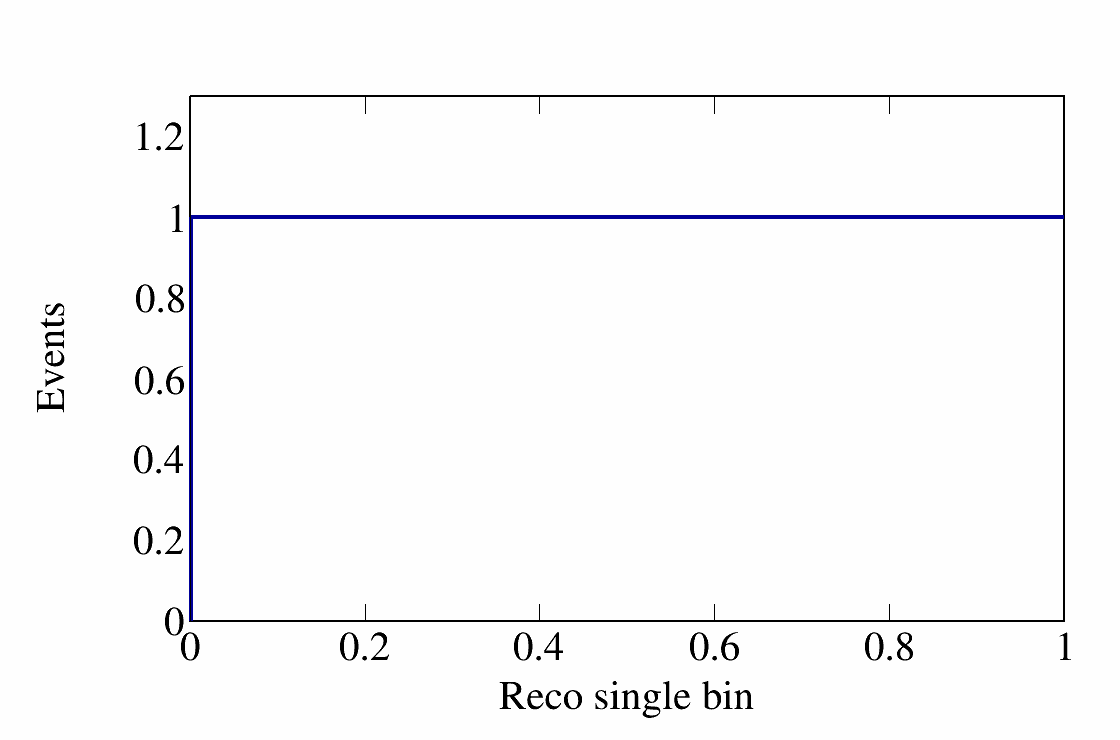
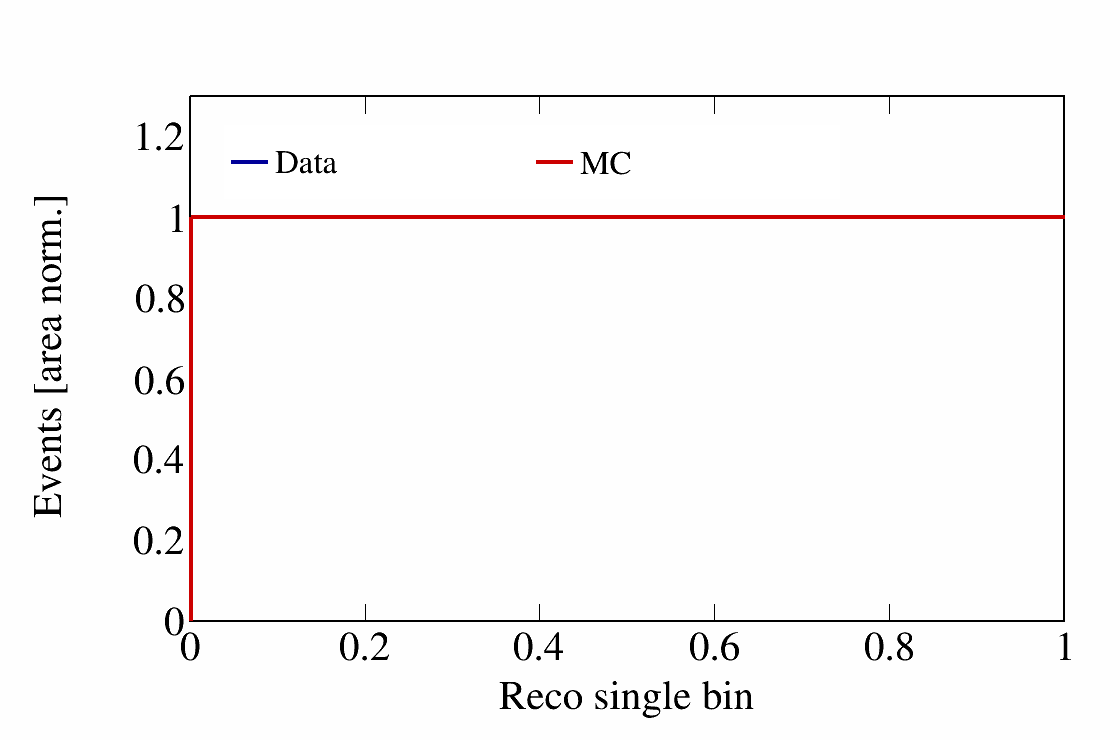
Overlay data with MC shapes

diff --git a/CAFAnaAnalysis/Scripts/SelectionData.C b/CAFAnaAnalysis/Scripts/SelectionData.C
@@ -35,7 +35,8 @@ void SelectionData() {
     double TextSize = 0.06;	
 
     // The SpectrumLoader object handles the loading of CAFs and the creation of Spectrum.
-    SpectrumLoader NuLoader("/exp/sbnd/data/users/munjung/SBND/data/run_14500_14503.flat.caf.root");
+    SpectrumLoader DataLoader("/exp/sbnd/data/users/munjung/SBND/data/run_14500_14503.flat.caf.root");
+    SpectrumLoader MCLoader(InputFiles);
 
     // Directory to store figs
     TString dir = "/exp/sbnd/app/users/" + (TString)UserName + "/CC1muAnalysis";
@@ -44,12 +45,13 @@ void SelectionData() {
     TString RootFilePath = "/exp/sbnd/data/users/" + (TString)UserName + "/CAFAnaOutput/Data.root";
     TFile* SaveFile = new TFile(RootFilePath, "RECREATE");
 
-    std::vector<std::unique_ptr<Spectrum>> Spectra;
+    std::vector<std::tuple<std::unique_ptr<Spectrum>, std::unique_ptr<Spectrum>>> Spectra;
 
     // Variables after cutting 
     for (std::size_t i = 0; i < Vars.size(); i++) {
-        auto RecoSignal = std::make_unique<Spectrum>(VarLabels.at(i), VarBins.at(i), NuLoader, std::get<0>(Vars.at(i)), kNoSpillCut, kRecoIsSignal);
-        Spectra.push_back(std::move(RecoSignal));
+        auto RecoSignal = std::make_unique<Spectrum>(VarLabels.at(i), VarBins.at(i), DataLoader, std::get<0>(Vars.at(i)), kNoSpillCut, kRecoIsSignal);
+        auto MCSignal = std::make_unique<Spectrum>(VarLabels.at(i), VarBins.at(i), MCLoader, std::get<0>(Vars.at(i)), kNoSpillCut, kRecoIsSignal);
+        Spectra.push_back({std::move(RecoSignal), std::move(MCSignal)});
     }
 
     // Variables without any cut
@@ -58,15 +60,16 @@ void SelectionData() {
     NoCutVars.push_back(kVertexY); NoCutBins.push_back(bVertexY); NoCutLabels.push_back("#vec{v}_{y}"); NoCutNames.push_back("VertexY");
     NoCutVars.push_back(kVertexZ); NoCutBins.push_back(bVertexZ); NoCutLabels.push_back("#vec{v}_{z}"); NoCutNames.push_back("VertexZ");
     for (std::size_t i = 0; i < NoCutVars.size(); i++) {
-        auto RecoSignal = std::make_unique<Spectrum>(NoCutLabels.at(i), NoCutBins.at(i), NuLoader, NoCutVars.at(i), kNoSpillCut, kNoInvalidVariables);
-        Spectra.push_back(std::move(RecoSignal));
+        auto RecoSignal = std::make_unique<Spectrum>(NoCutLabels.at(i), NoCutBins.at(i), DataLoader, NoCutVars.at(i), kNoSpillCut, kNoInvalidVariables);
+        auto MCSignal = std::make_unique<Spectrum>(NoCutLabels.at(i), NoCutBins.at(i), MCLoader, NoCutVars.at(i), kNoSpillCut, kNoInvalidVariables);
+        Spectra.push_back({std::move(RecoSignal), std::move(MCSignal)});
     }
     
-    NuLoader.Go();
+    DataLoader.Go(); MCLoader.Go();
 
     // Variables after cutting
     for (std::size_t iVar = 0; iVar < Vars.size(); iVar++) {
-        auto& RecoSignal = Spectra[iVar];
+        auto& [RecoSignal, MCSignal] = Spectra[iVar];
 
         TCanvas* PlotCanvas = new TCanvas("Selection","Selection",205,34,1124,768);
         PlotCanvas->SetTopMargin(0.13);
@@ -74,15 +77,34 @@ void SelectionData() {
         PlotCanvas->SetRightMargin(0.05);
         PlotCanvas->SetBottomMargin(0.16);
 
+        TLegend* leg = new TLegend(0.2,0.73,0.75,0.83);
+        leg->SetBorderSize(0);
+        leg->SetNColumns(3);
+        leg->SetTextSize(TextSize*0.8);
+        leg->SetTextFont(FontStyle);
+
         TH1D* RecoHist = RecoSignal->ToTH1(TargetPOT);
+        TH1D* MCHist = MCSignal->ToTH1(TargetPOT);
 
         RecoHist->SetBinContent(RecoHist->GetNbinsX(), RecoHist->GetBinContent(RecoHist->GetNbinsX()) + RecoHist->GetBinContent(RecoHist->GetNbinsX() + 1));
         RecoHist->SetBinContent(1, RecoHist->GetBinContent(0) + RecoHist->GetBinContent(1));
 
-        double Area = RecoHist->Integral();
-        RecoHist->Scale(1 / Area);
+        MCHist->SetBinContent(MCHist->GetNbinsX(), MCHist->GetBinContent(MCHist->GetNbinsX()) + MCHist->GetBinContent(MCHist->GetNbinsX() + 1));
+        MCHist->SetBinContent(1, MCHist->GetBinContent(0) + MCHist->GetBinContent(1));
+
+        double RecoArea = RecoHist->Integral();
+        RecoHist->Scale(1 / RecoArea);
+
+        double MCArea = MCHist->Integral();
+        MCHist->Scale(1 / MCArea);
+
+        TLegendEntry* legData = leg->AddEntry(RecoHist,"Data","l");
         RecoHist->SetLineColor(kBlue+2);
         RecoHist->SetLineWidth(4);
+
+        TLegendEntry* legMC = leg->AddEntry(MCHist,"MC","l");
+        MCHist->SetLineColor(kRed+1);
+        MCHist->SetLineWidth(4);
 
         RecoHist->GetXaxis()->SetTitleFont(FontStyle);
         RecoHist->GetXaxis()->SetLabelFont(FontStyle);
@@ -101,10 +123,14 @@ void SelectionData() {
         RecoHist->GetYaxis()->SetTitleOffset(1.3);
         RecoHist->GetYaxis()->SetTickSize(0);
         RecoHist->GetYaxis()->CenterTitle();
+        RecoHist->GetYaxis()->SetTitle("Events [area norm.]");
 
-        RecoHist->GetYaxis()->SetRangeUser(0., RecoHist->GetMaximum() * 1.3);
+        double Max = std::max(RecoHist->GetMaximum(), MCHist->GetMaximum());
+        RecoHist->GetYaxis()->SetRangeUser(0., Max * 1.3);
         PlotCanvas->cd();
         RecoHist->Draw("hist");
+        MCHist->Draw("hist same");
+        leg->Draw();
         PlotCanvas->SaveAs(dir+"/Figs/CAFAna/DataCounts/"+PlotNames[iVar]+".png");
 
         delete PlotCanvas;
@@ -112,7 +138,7 @@ void SelectionData() {
 
     // Variables without any cutting
     for (std::size_t iVar = Vars.size(); iVar < Vars.size() + NoCutVars.size(); iVar++) {
-        auto& RecoSignal = Spectra[iVar];
+        auto& [RecoSignal, MCSignal] = Spectra[iVar];
 
         TCanvas* PlotCanvas = new TCanvas("Selection","Selection",205,34,1124,768);
         PlotCanvas->SetTopMargin(0.13);
@@ -120,15 +146,34 @@ void SelectionData() {
         PlotCanvas->SetRightMargin(0.05);
         PlotCanvas->SetBottomMargin(0.16);
 
+        TLegend* leg = new TLegend(0.2,0.73,0.75,0.83);
+        leg->SetBorderSize(0);
+        leg->SetNColumns(3);
+        leg->SetTextSize(TextSize*0.8);
+        leg->SetTextFont(FontStyle);
+
         TH1D* RecoHist = RecoSignal->ToTH1(TargetPOT);
+        TH1D* MCHist = MCSignal->ToTH1(TargetPOT);
 
         RecoHist->SetBinContent(RecoHist->GetNbinsX(), RecoHist->GetBinContent(RecoHist->GetNbinsX()) + RecoHist->GetBinContent(RecoHist->GetNbinsX() + 1));
         RecoHist->SetBinContent(1, RecoHist->GetBinContent(0) + RecoHist->GetBinContent(1));
 
-        double Area = RecoHist->Integral();
-        RecoHist->Scale(1 / Area);
+        MCHist->SetBinContent(MCHist->GetNbinsX(), MCHist->GetBinContent(MCHist->GetNbinsX()) + MCHist->GetBinContent(MCHist->GetNbinsX() + 1));
+        MCHist->SetBinContent(1, MCHist->GetBinContent(0) + MCHist->GetBinContent(1));
+
+        double RecoArea = RecoHist->Integral();
+        RecoHist->Scale(1 / RecoArea);
+
+        double MCArea = MCHist->Integral();
+        MCHist->Scale(1 / MCArea);
+
+        TLegendEntry* legData = leg->AddEntry(RecoHist,"Data","l");
         RecoHist->SetLineColor(kBlue+2);
         RecoHist->SetLineWidth(4);
+
+        TLegendEntry* legMC = leg->AddEntry(MCHist,"MC","l");
+        MCHist->SetLineColor(kRed+1);
+        MCHist->SetLineWidth(4);
 
         RecoHist->GetXaxis()->SetTitleFont(FontStyle);
         RecoHist->GetXaxis()->SetLabelFont(FontStyle);
@@ -147,10 +192,14 @@ void SelectionData() {
         RecoHist->GetYaxis()->SetTitleOffset(1.3);
         RecoHist->GetYaxis()->SetTickSize(0);
         RecoHist->GetYaxis()->CenterTitle();
+        RecoHist->GetYaxis()->SetTitle("Events [area norm.]");
 
-        RecoHist->GetYaxis()->SetRangeUser(0., RecoHist->GetMaximum() * 1.3);
+        double Max = std::max(RecoHist->GetMaximum(), MCHist->GetMaximum());
+        RecoHist->GetYaxis()->SetRangeUser(0., Max * 1.3);
         PlotCanvas->cd();
         RecoHist->Draw("hist");
+        MCHist->Draw("hist same");
+        leg->Draw();
         PlotCanvas->SaveAs(dir+"/Figs/CAFAna/DataCounts/NoCut/"+NoCutNames[iVar - Vars.size()]+".png");
 
         delete PlotCanvas;
